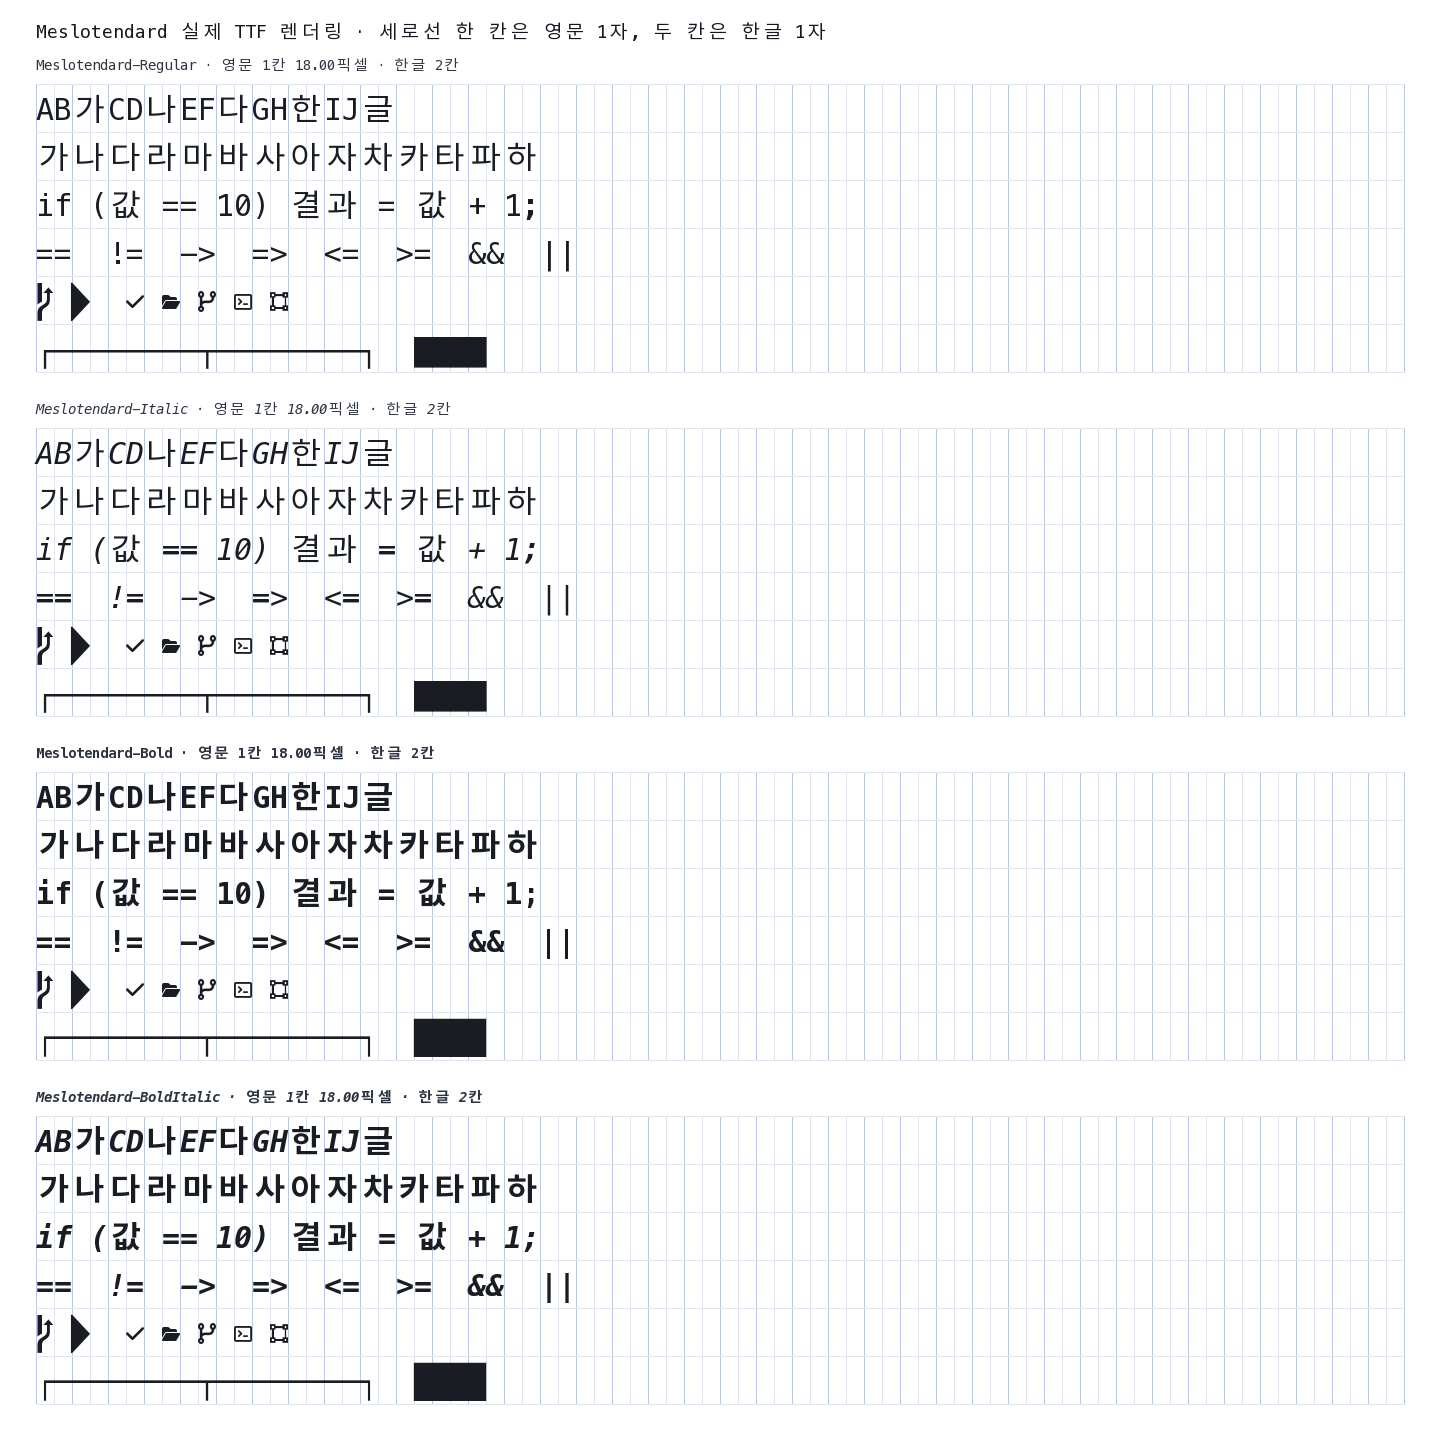
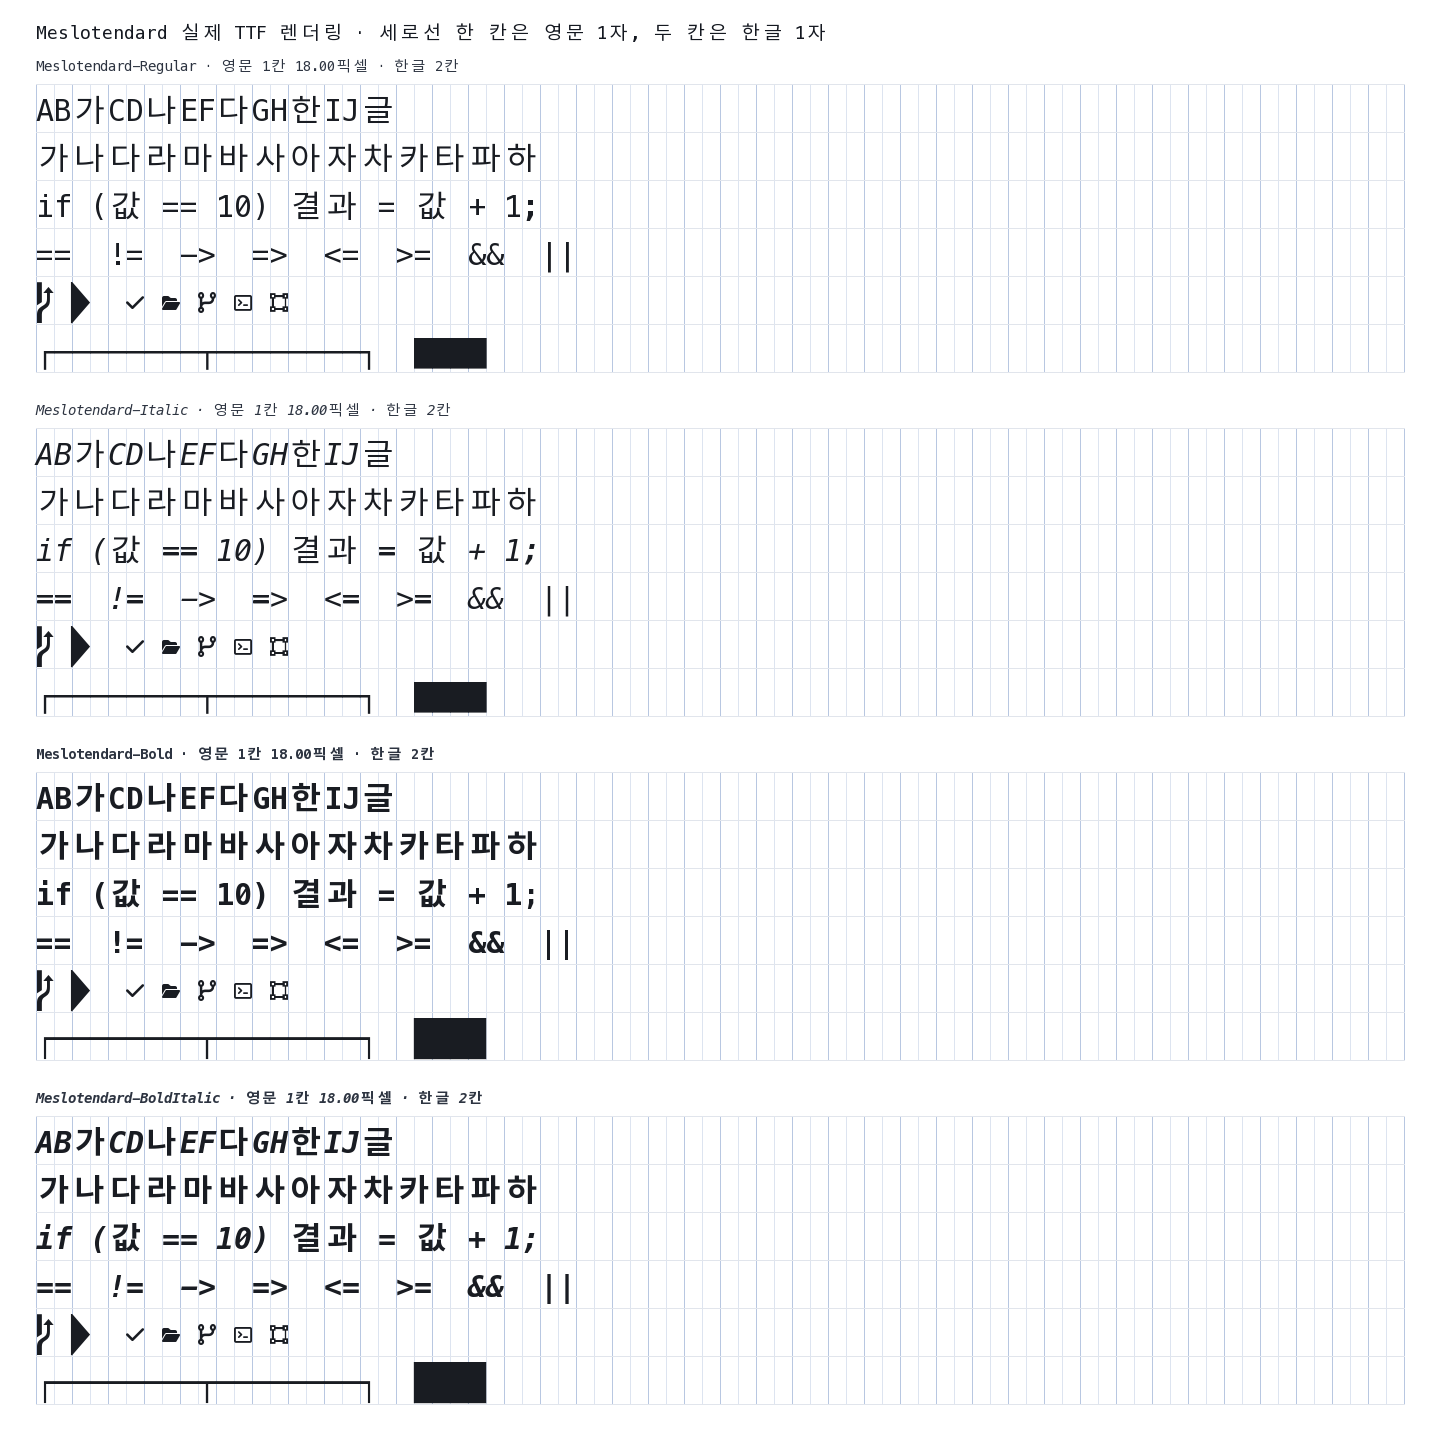
Meslo 영문 폰트를 중간 행간으로 변경

diff --git a/tests/test_sources.py b/tests/test_sources.py
@@ -1,6 +1,7 @@
 from __future__ import annotations
 
 import hashlib
+import tomllib
 from pathlib import Path
 
 import pytest
@@ -22,8 +23,8 @@ def test_variant_matrix_has_two_real_weights_and_two_styles() -> None:
 
 def test_regular_italic_source_name_matches_meslo_archive() -> None:
     variant = make_variant("Regular", "italic")
-    assert variant.latin_filename == "MesloLGSNerdFontMono-Italic.ttf"
-    assert variant.upright_latin_filename == "MesloLGSNerdFontMono-Regular.ttf"
+    assert variant.latin_filename == "MesloLGMNerdFontMono-Italic.ttf"
+    assert variant.upright_latin_filename == "MesloLGMNerdFontMono-Regular.ttf"
     assert variant.cjk_filename == "Pretendard-Regular.ttf"
     assert variant.output_suffix == "Italic"
 
@@ -37,10 +38,14 @@ def test_unknown_variant_values_are_rejected() -> None:
 
 def test_lock_pins_sources_metrics_and_sha256() -> None:
     lock = load_lock()
-    assert lock["project"]["version"] == __version__ == "0.3.0"
+    with (Path(__file__).parents[1] / "pyproject.toml").open("rb") as handle:
+        pyproject = tomllib.load(handle)
+
+    assert lock["project"]["version"] == __version__ == pyproject["project"]["version"]
     assert lock["project"]["family"] == "Meslotendard"
     assert lock["project"]["latin_horizontal_scale"] == 1.0
     assert lock["project"]["latin_advance_em"] == pytest.approx(1233 / 2048)
+    assert lock["sources"]["meslo"]["name"] == "MesloLGM Nerd Font Mono"
     assert lock["sources"]["meslo"]["version"] == "1.21 / Nerd Fonts 3.4.0"
     assert lock["sources"]["pretendard"]["version"] == "1.3.9"
     for source in lock["sources"].values():

diff --git a/src/meslotendard/sources.py b/src/meslotendard/sources.py
@@ -39,11 +39,11 @@ class Variant:
 
     @property
     def latin_filename(self) -> str:
-        return f"MesloLGSNerdFontMono-{self.source_suffix}.ttf"
+        return f"MesloLGMNerdFontMono-{self.source_suffix}.ttf"
 
     @property
     def upright_latin_filename(self) -> str:
-        return f"MesloLGSNerdFontMono-{self.weight_name}.ttf"
+        return f"MesloLGMNerdFontMono-{self.weight_name}.ttf"
 
     @property
     def cjk_filename(self) -> str:
@@ -160,7 +160,7 @@ def write_sources_note(lock: dict) -> None:
     lines = [
         "# Meslotendard 빌드 입력",
         "",
-        f"- MesloLGS Nerd Font Mono: {meslo['version']}",
+        f"- {meslo['name']}: {meslo['version']}",
         f"- Pretendard: {pretendard['version']}",
         f"- 영문 윤곽 가로 배율: {project['latin_horizontal_scale']:.6f}",
         f"- 영문 셀 너비: {project['latin_advance_em']:.12f}em",

diff --git a/tests/test_packaging.py b/tests/test_packaging.py
@@ -3,6 +3,7 @@ from __future__ import annotations
 import zipfile
 from pathlib import Path
 
+from meslotendard import __version__
 from meslotendard.packaging import create_release_assets
 
 
@@ -22,7 +23,7 @@ def test_release_package_contains_four_fonts_licenses_and_checksums(
 
     with zipfile.ZipFile(assets[0]) as archive:
         names = set(archive.namelist())
-        assert archive.read("VERSION.txt") == b"0.3.0\n"
+        assert archive.read("VERSION.txt") == f"{__version__}\n".encode("ascii")
         assert len(archive.read("SHA256SUMS.txt").decode("ascii").splitlines()) == 4
 
     for suffix in ("Regular", "Bold", "Italic", "BoldItalic"):

diff --git a/src/meslotendard/cli.py b/src/meslotendard/cli.py
@@ -32,7 +32,7 @@ def _parser() -> argparse.ArgumentParser:
 
     build = subparsers.add_parser(
         "build",
-        help="MesloLGS Nerd Font Mono와 Pretendard 병합",
+        help="MesloLGM Nerd Font Mono와 Pretendard 병합",
     )
     _add_variant_selection(build)
     build.add_argument("--output-dir", type=Path, default=DEFAULT_OUTPUT_DIR)

diff --git a/src/meslotendard/builder.py b/src/meslotendard/builder.py
@@ -1,4 +1,4 @@
-"""MesloLGS Nerd Font Mono와 Pretendard 한글을 병합한다."""
+"""MesloLGM Nerd Font Mono와 Pretendard 한글을 병합한다."""
 
 from __future__ import annotations
 

diff --git a/src/meslotendard/__init__.py b/src/meslotendard/__init__.py
@@ -1,6 +1,6 @@
 """Meslotendard 글꼴 빌더."""
 
-__version__ = "0.3.0"
+__version__ = "0.3.1"
 
 from meslotendard.cli import main
 

diff --git a/licenses/THIRD_PARTY_NOTICES.md b/licenses/THIRD_PARTY_NOTICES.md
@@ -7,7 +7,7 @@
 - 저작권: Copyright 2009, 2010, 2013 André Berg
 - 라이선스: Apache License 2.0
 
-Meslotendard는 MesloLGS Nerd Font Mono의 Regular, Bold, Italic, Bold Italic을
+Meslotendard는 MesloLGM Nerd Font Mono의 Regular, Bold, Italic, Bold Italic을
 영문·기호·아이콘 원본으로 사용합니다. 영문 셀 메트릭을 고정하고, 패밀리 이름과
 라이선스 메타데이터를 변경하며, 코딩 리게이처와 치환 테이블을 제거했습니다.
 Apache License 2.0 전문은 `MESLO_APACHE-2.0.txt`에 있습니다.
@@ -30,7 +30,7 @@ Pretendard의 한글·CJK 윤곽을 크기와 위치를 조정해 영문 두 칸
 - 라이선스 원문: `NERD_FONTS_LICENSE.txt`
 - 라이선스 감사표: https://github.com/ryanoasis/nerd-fonts/blob/v3.4.0/license-audit.md
 
-MesloLGS Nerd Font Mono에 포함된 Nerd Font 아이콘을 한 칸 고정폭으로 유지합니다.
+MesloLGM Nerd Font Mono에 포함된 Nerd Font 아이콘을 한 칸 고정폭으로 유지합니다.
 Nerd Fonts 자체 소스와 Symbols Only 글꼴은 MIT로 분류되지만, 포함된 아이콘의
 원본별 조건은 서로 다릅니다. 공식 감사표에 따라 Codicons와 Font Awesome은
 CC BY 4.0, Material Design Icons는 Apache 2.0, Pomicons와 Weather Icons는

diff --git a/README.md b/README.md
@@ -3,7 +3,7 @@
 Meslotendard는 [younjungpark/Monatendard](https://github.com/younjungpark/Monatendard)에서
 포크한 한글 코딩 글꼴 프로젝트입니다.
 
-MesloLGS Nerd Font Mono의 영문·아이콘과 Pretendard의 한글을 결합합니다.
+MesloLGM Nerd Font Mono의 영문·아이콘과 Pretendard의 한글을 결합합니다.
 폰트 패밀리 하나만 설치하면 Nerd Font 아이콘과 완전 고정폭을 함께 사용할 수 있으며,
 한글 한 글자는 영문 정확히 두 칸을 차지합니다. 코딩 리게이처는 포함하지 않습니다.
 

diff --git a/FONTLOG.md b/FONTLOG.md
@@ -2,6 +2,11 @@
 
 이 문서는 원본 글꼴에서 변경한 내용을 기록합니다.
 
+## 0.3.1
+
+- 영문·아이콘 원본을 작은 행간의 MesloLGS Nerd Font Mono에서 중간 행간의
+  MesloLGM Nerd Font Mono로 변경했습니다.
+
 ## 0.3.0
 
 - `younjungpark/Monatendard`에서 포크했습니다.
